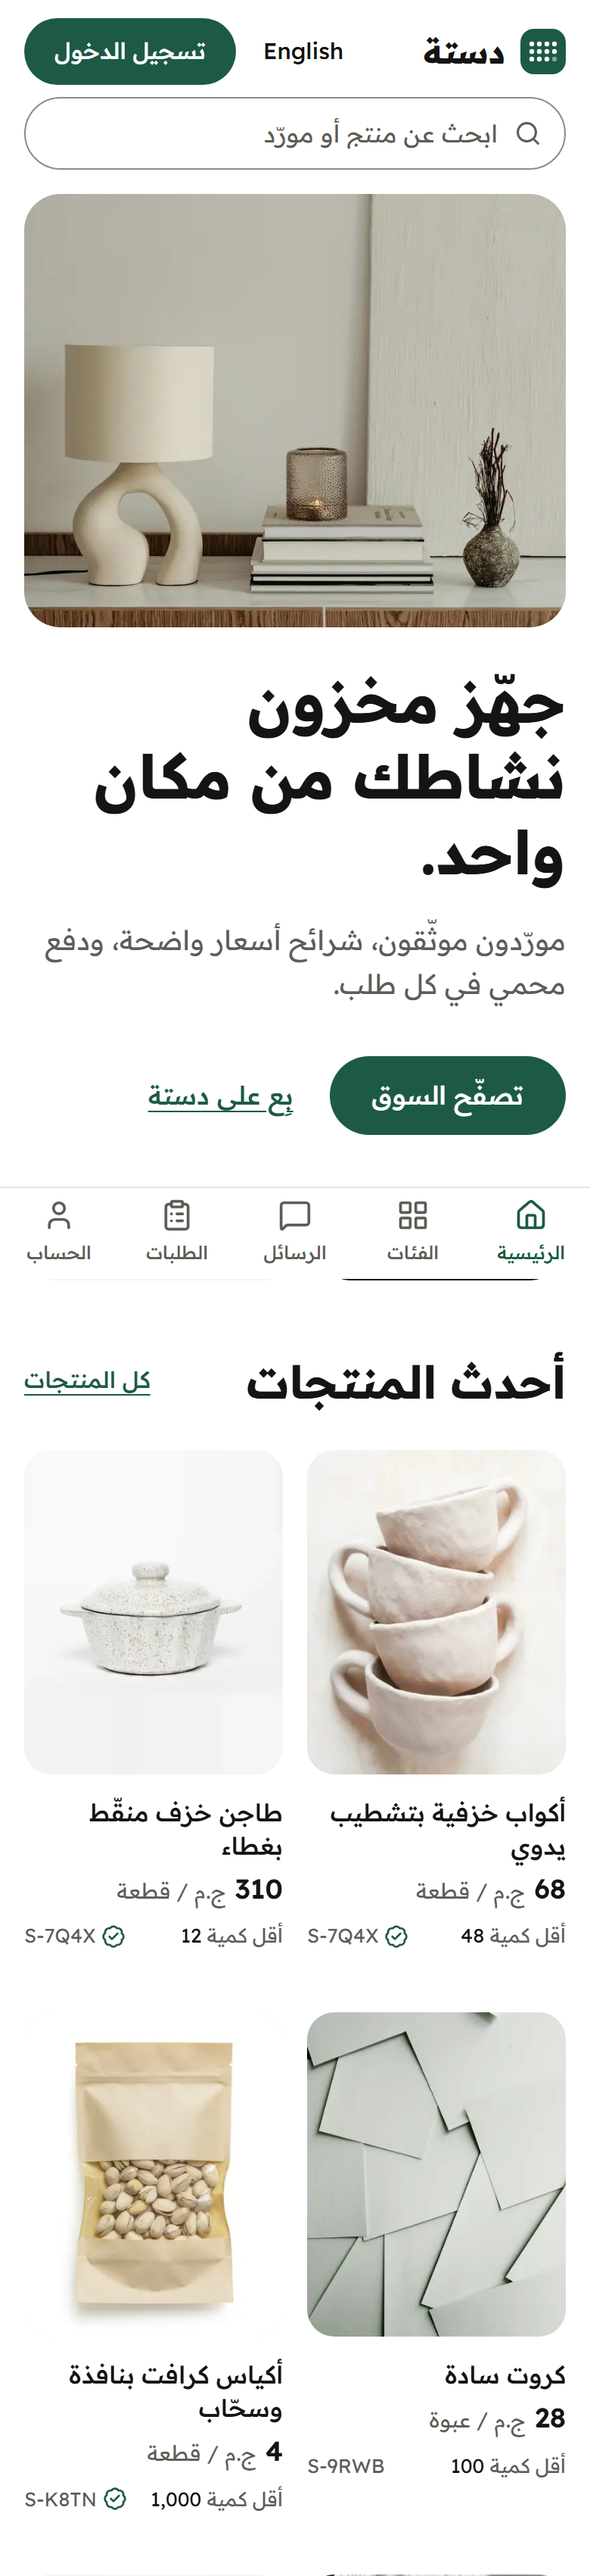
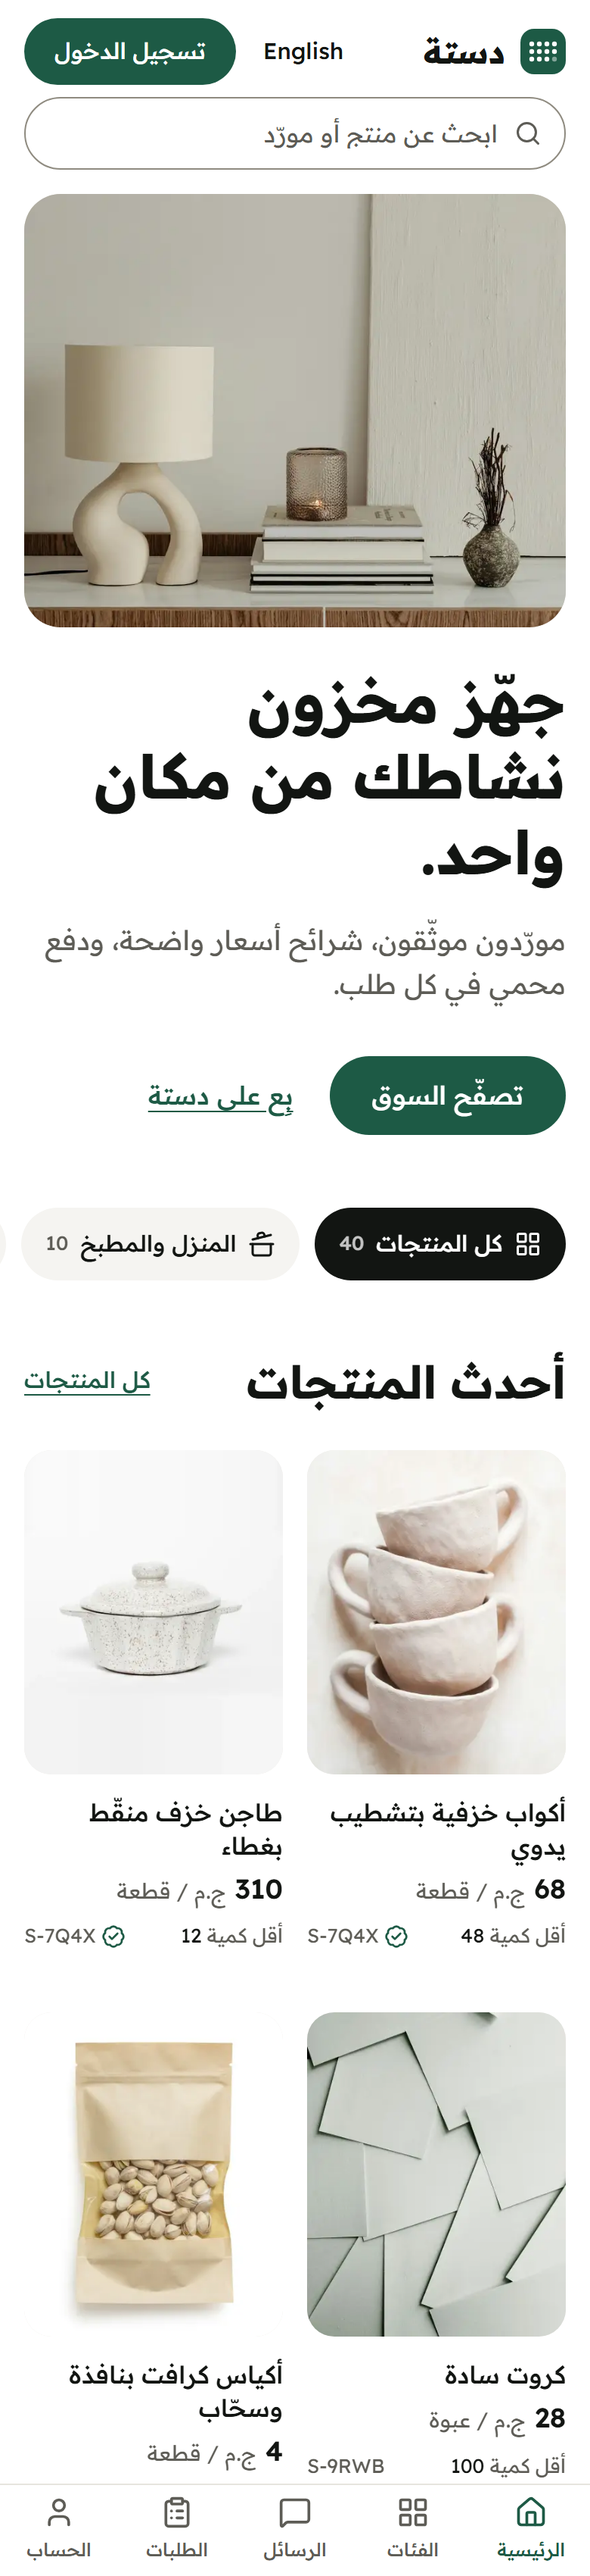
README: font and no-JavaScript notes; phone screenshots with the tab bar at the bottom of the frame

diff --git a/README.md b/README.md
@@ -50,7 +50,10 @@ Migrations are plain SQL in [`supabase/migrations/`](supabase/migrations/).
 - Phones have their own choreography in plain CSS and download no animation library.
 - Product, order, dashboard and admin pages are working screens: no smooth-scroll layer, nothing held.
   The product photograph travels from the list to its page (React view transitions).
-- Nothing moves for visitors who prefer reduced motion, and every page is complete with JavaScript off.
+- Nothing moves for visitors who prefer reduced motion, and the pages are complete with JavaScript off.
+  The one exception is the "page not found" screen, which Next.js draws in the browser.
+- The text face (Readex Pro) is served from `public/fonts`, so each language preloads only the file it
+  uses: Latin everywhere, Arabic on Arabic pages.
 - Text is revealed by lines, never by letters, so Arabic stays joined.
 
 ## Security design
